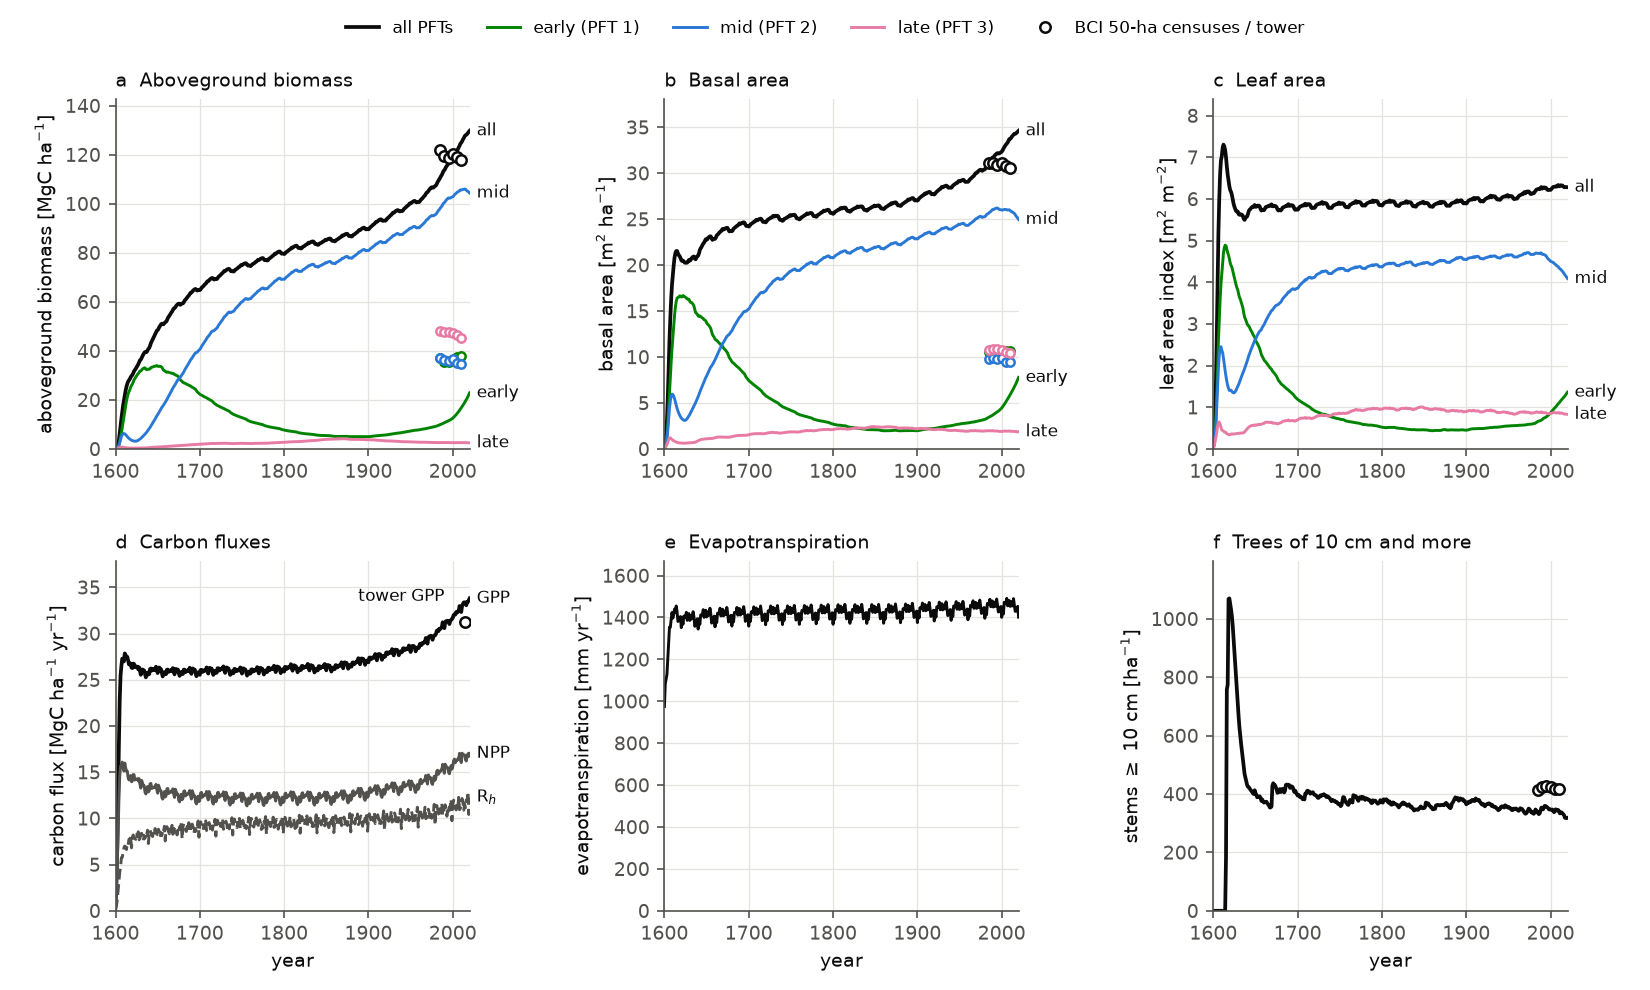
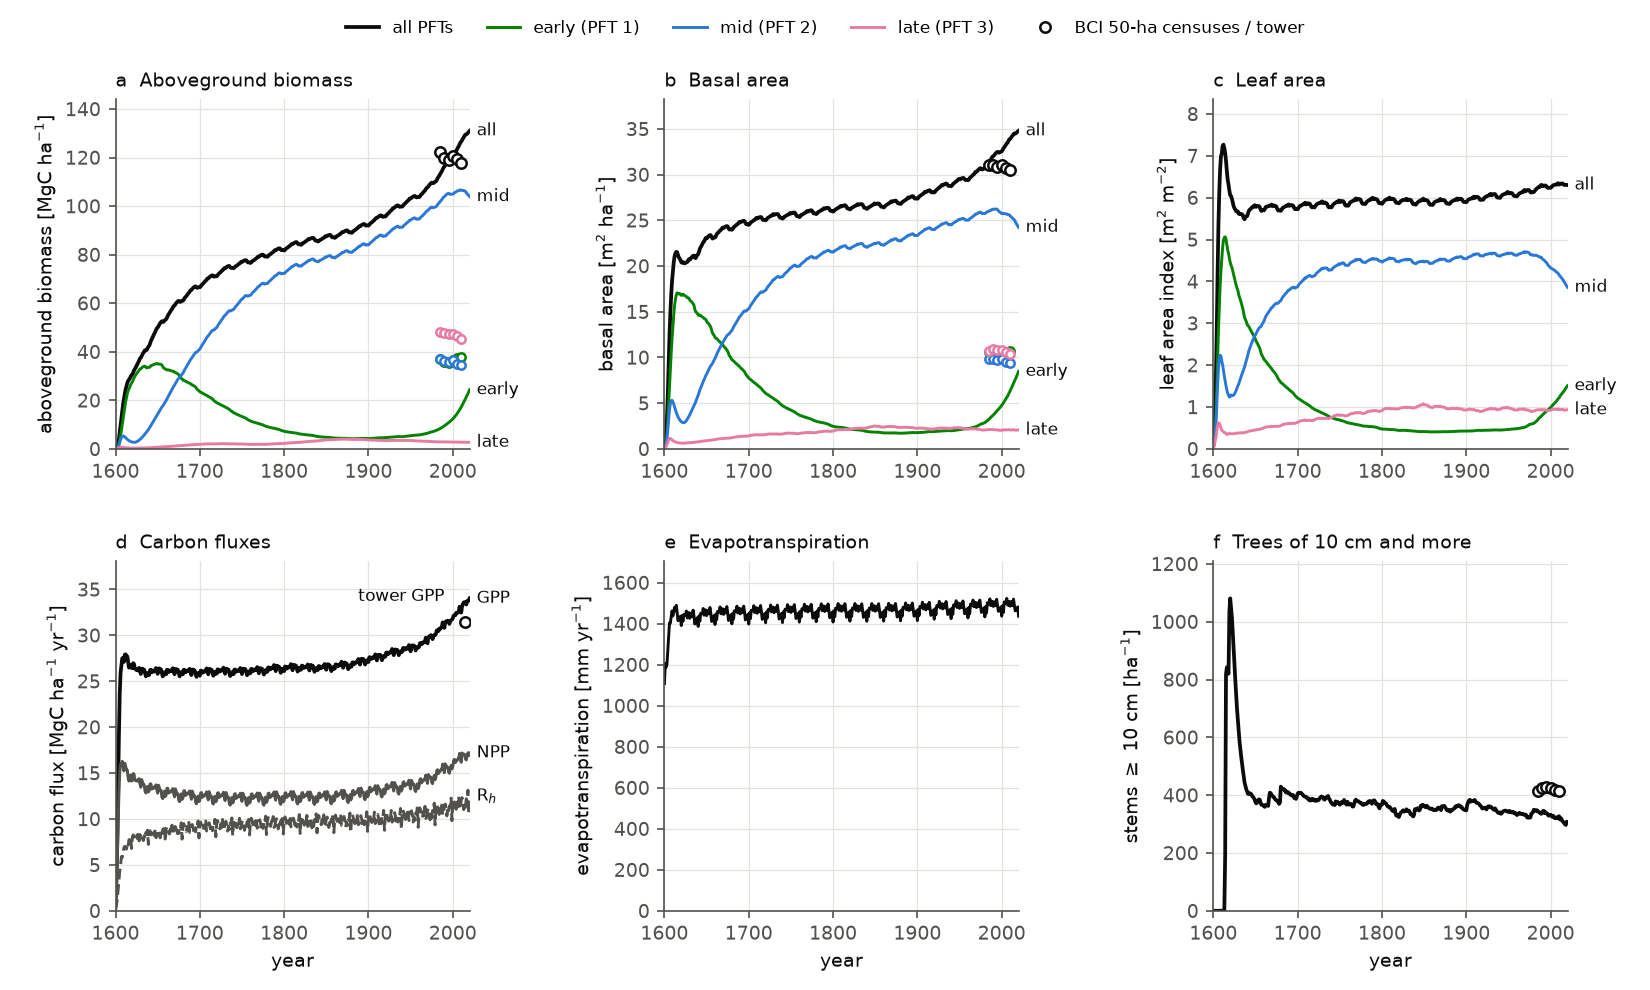
example05: rerun on the fast-kernel physics (P7b)
BCI 1600-2020 (2.2 h on 20 threads): AGB 126.6 MgC/ha in 2010 against the
census's 117.9 (was 124.9), 131.0 in 2020; the mid PFT overtakes the early in
1677; the late PFT peaks at 4 near 1870. The census check moves by a few
percent (diameter growth 0.72-1.67x the census below 20 cm, 1.6-4.0x above;
GPP 31.4, NPP 12.5, aboveground wood NPP 4.5 MgC/ha/yr). The tower's
corrected GPP follows example 04's new kappa: 31.5 MgC/ha/yr.

Palo Verde: the 2009 inventory check holds (litter 0.50, AGB growth 0.47,
mortality 2.5/1.2/0.7/0.5 % yr-1); the lowest leaf cover is now 0.00 / 0.00 /
0.28 / 0.73 (daily PFT LAI over its maximum). The regrowth from bare ground
reaches 76.5 MgC/ha at 150 years, 87 % of the inventory's; E passes Ds at
131 years; 562 trees >= 10 cm per ha.

diff --git a/examples/example05_forest_regeneration/plot_regeneration.py b/examples/example05_forest_regeneration/plot_regeneration.py
@@ -26,7 +26,7 @@ CENSUS = os.path.join(os.path.dirname(HERE), "example03_demography", "census_sta
 PFT_COLOR = {1: "#008300", 2: "#2a78d6", 3: "#e87ba4"}   # the ED colours, as in example 03
 PFT_NAME = {1: "early", 2: "mid", 3: "late"}
 INK, MUTED, GRID = "#0b0b0b", "#52514e", "#e4e3df"
-TOWER_GPP = 31.3          # [MgC/ha/yr] the BCI tower 2012-2017, corrected for its low bias (example 04)
+TOWER_GPP = 31.5          # [MgC/ha/yr] the BCI tower 2012-2017, corrected for its low bias (example 04)
 plt.rcParams.update({"font.size": 9, "axes.edgecolor": MUTED, "axes.labelcolor": INK,
                      "xtick.color": MUTED, "ytick.color": MUTED, "axes.spines.top": False,
                      "axes.spines.right": False, "axes.grid": True, "grid.color": GRID,
